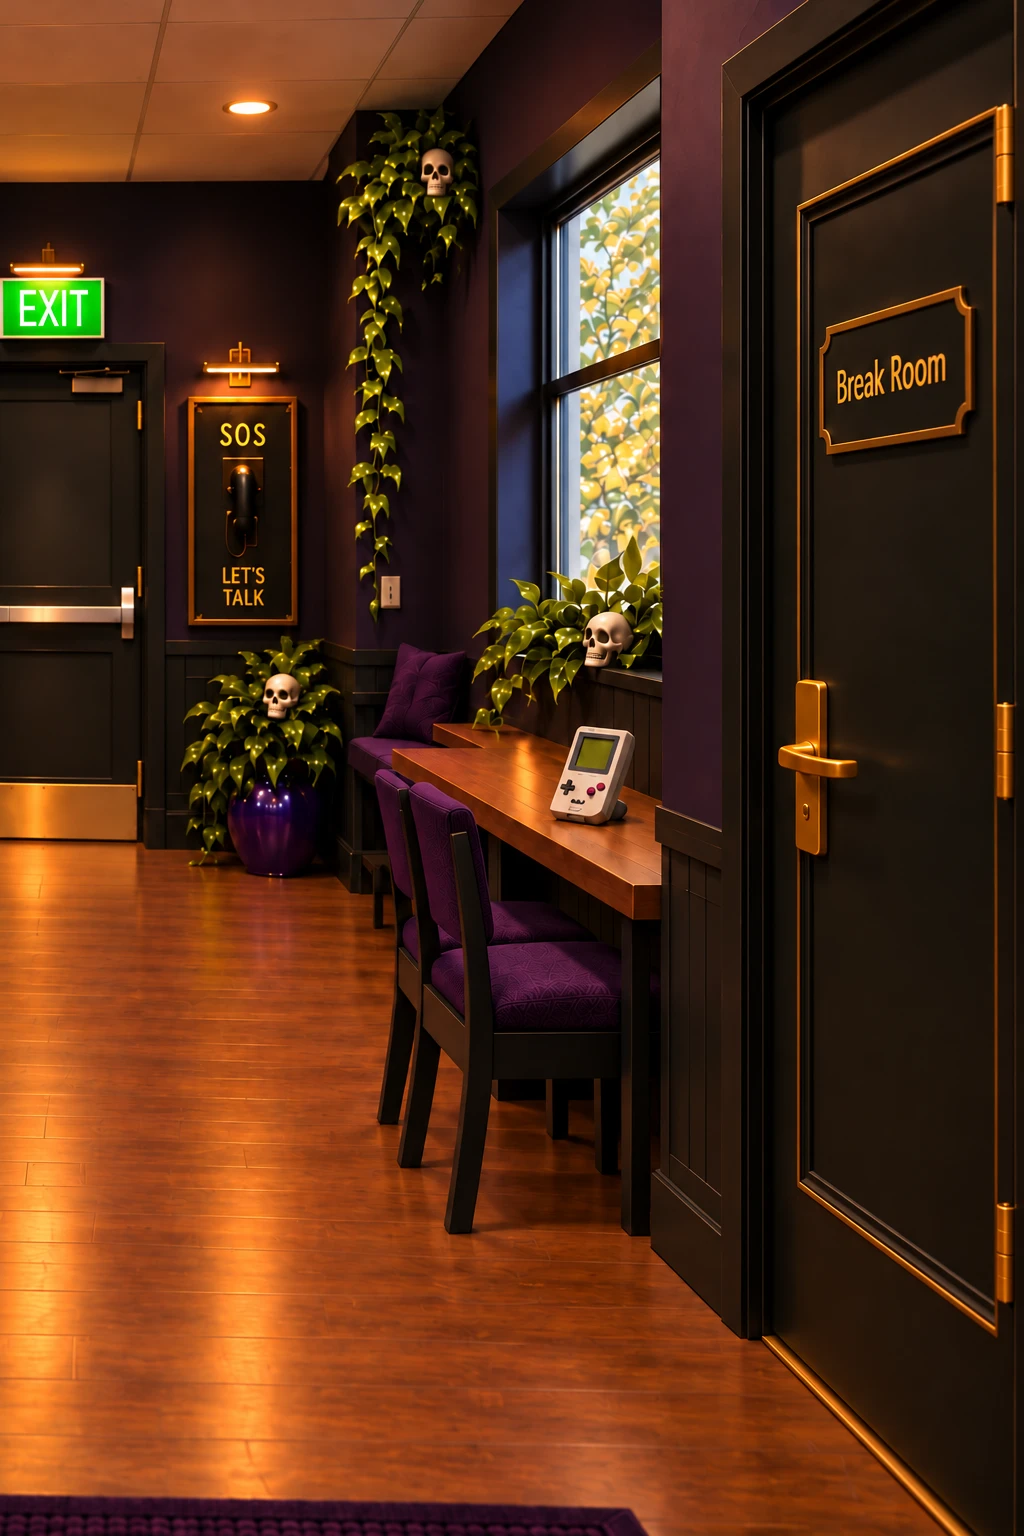
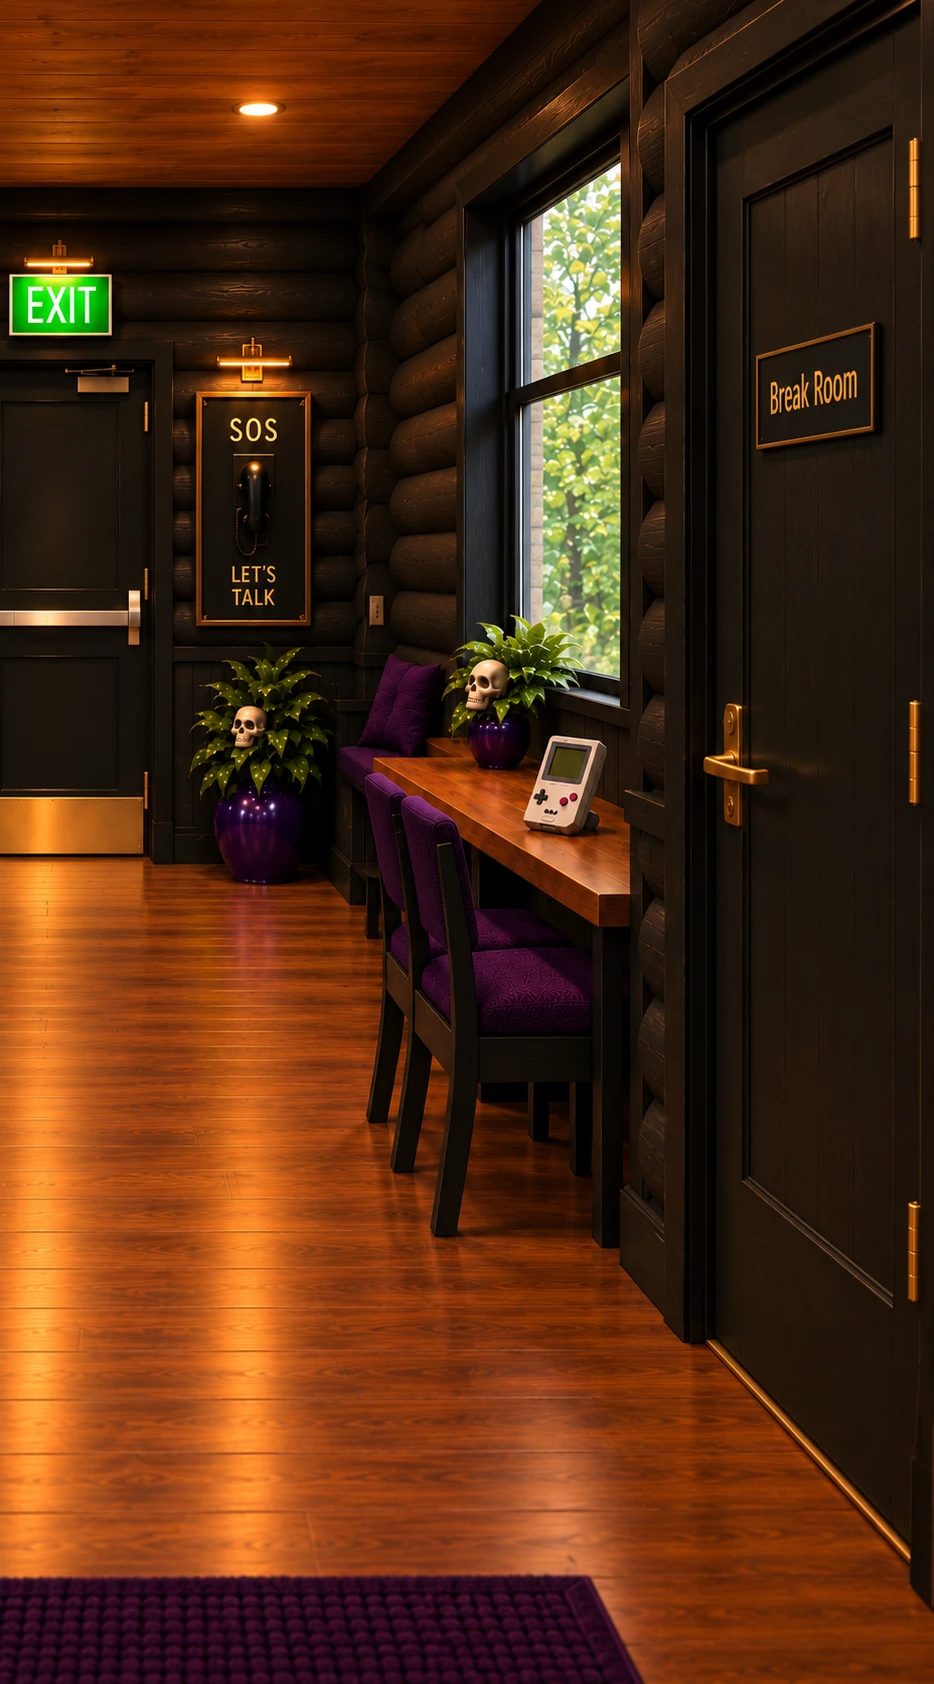
art: cabin restyle batch 2 — games room x3, break room x2 (+ unhook bar night frame)
Games Room views came out 934x1684; Break Room views 851x1847. Dims updated
to match; cafebar_right night frame unhooked (stale style).

Claude-Session: https://claude.ai/code/session_01KKhQMghLUspva6Yzs31jQ3

diff --git a/src/data/hubScene.ts b/src/data/hubScene.ts
@@ -310,8 +310,8 @@ export const HUB_NODES: Record<string, HubNode> = {
     id: "arcade",
     title: "Games Room",
     image: require("../../assets/scenes/arcade_front.png"),
-    imgW: 1024,
-    imgH: 1536,
+    imgW: 934,
+    imgH: 1684,
     fit: "screen",
     left: "arcade_left",
     right: "arcade_right",
@@ -332,8 +332,8 @@ export const HUB_NODES: Record<string, HubNode> = {
     id: "arcade_left",
     title: "Games Room",
     image: require("../../assets/scenes/arcade_left.png"),
-    imgW: 1024,
-    imgH: 1536,
+    imgW: 934,
+    imgH: 1684,
     fit: "screen",
     right: "arcade",
     back: "right",
@@ -348,8 +348,8 @@ export const HUB_NODES: Record<string, HubNode> = {
     id: "arcade_right",
     title: "Games Room",
     image: require("../../assets/scenes/arcade_right.png"),
-    imgW: 1024,
-    imgH: 1536,
+    imgW: 934,
+    imgH: 1684,
     fit: "screen",
     left: "arcade",
     back: "right",
@@ -513,8 +513,8 @@ export const HUB_NODES: Record<string, HubNode> = {
     id: "cafebar",
     title: "Café-Bar",
     image: require("../../assets/scenes/cafebar_front.png"),
-    imgW: 839,
-    imgH: 1875,
+    imgW: 851,
+    imgH: 1847,
     fit: "screen",
     right: "cafebar_right",
     // Back → the right corridor you entered from (home-right), not the lobby.
@@ -535,7 +535,6 @@ export const HUB_NODES: Record<string, HubNode> = {
     id: "cafebar_right",
     title: "Café-Bar",
     image: require("../../assets/scenes/cafebar_right.png"),
-    nightImage: require("../../assets/scenes/cafebar_right_night.png"),
     imgW: 851,
     imgH: 1847,
     fit: "screen",
